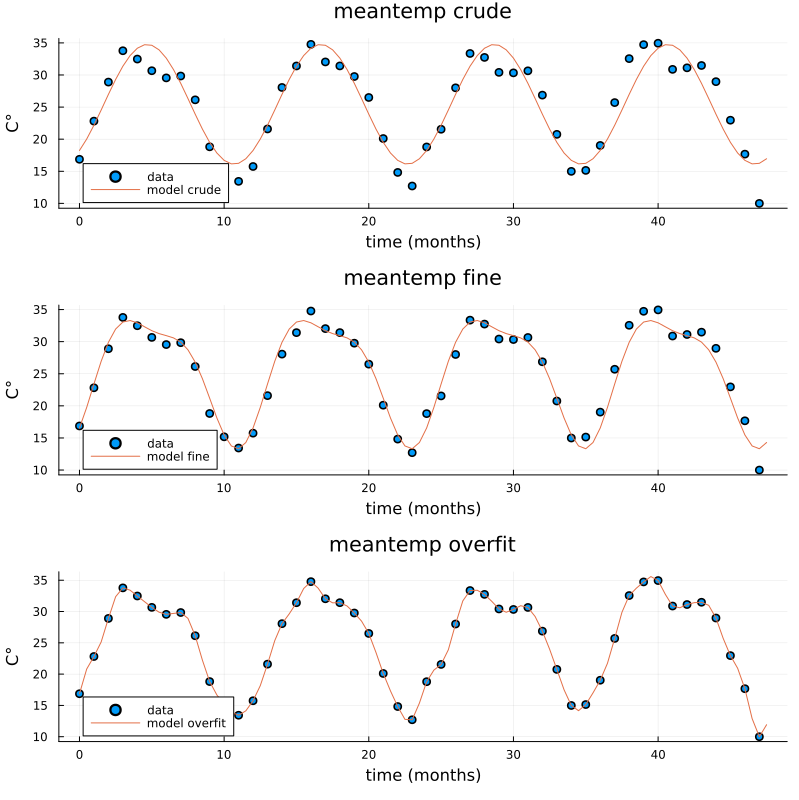
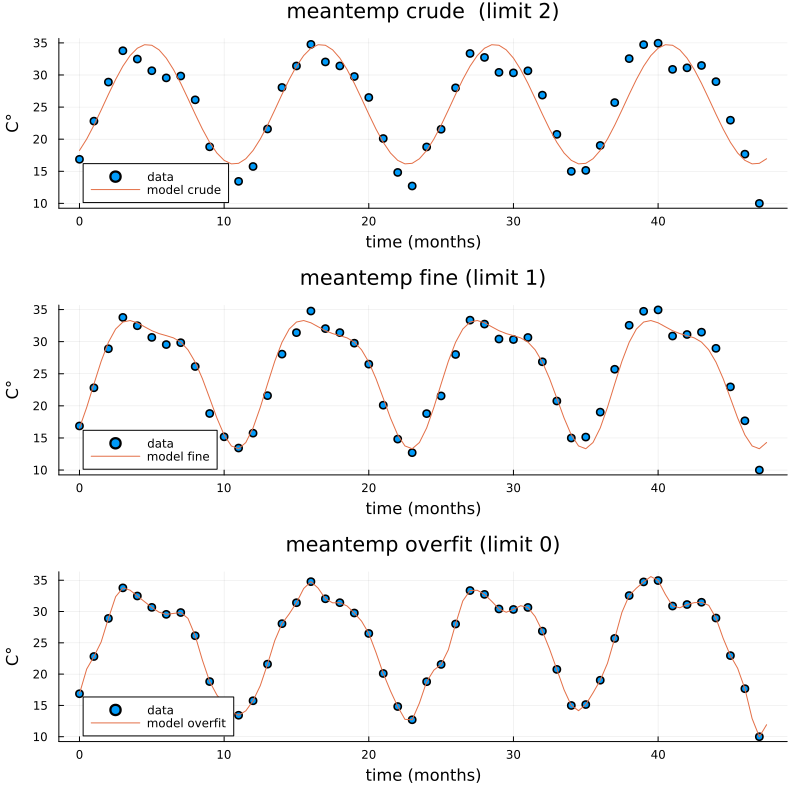
minor

Changed region(s): [[0.3905, 0.3125, 0.6909, 0.375], [0.3605, 0.6562, 0.6909, 0.6875], [0.3605, 0.0, 0.6909, 0.0312]]

diff --git a/content/regression.rst b/content/regression.rst
@@ -478,10 +478,10 @@ Now, the Fourier transform gives us the frequency components of the signals. Let
 .. figure:: img/climate_fft.png
    :align: center
 
-   Plots of frequency content of temperature data.
+   Plots of frequency content of temperature data. There is a peak at roughly 1/12 corresonding to a period of 1 year.
 
 We use the frequency information for interpolation and extrapolation and thereby build a model of the data.
-To decrease overfitting, we may project to a lower dimensional subspace of basis functions (essentially trigonmetric functions) by setting a parameter proj_lim below.
+To decrease overfitting, we may project to a lower dimensional subspace of basis functions (essentially trigonmetric functions) by setting a limit parameter proj_lim below.
 
 .. code-block:: julia
 
@@ -490,6 +490,7 @@ To decrease overfitting, we may project to a lower dimensional subspace of basis
    L_u = floor(Int64, L*upsample)
    t_u = (0:L_u-1)*L/L_u
 
+   # set limit for projection
    # proj_lim 0 means no projection 
    function get_model(proj_lim)
 
@@ -548,3 +549,5 @@ Some standard time-series models
 
 Exercises
 ^^^^^^^^^
+
+  * Do prediction using Iris data set and some different models
